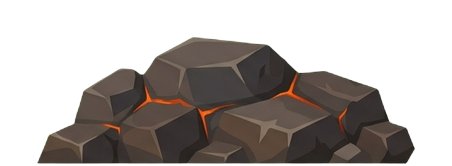
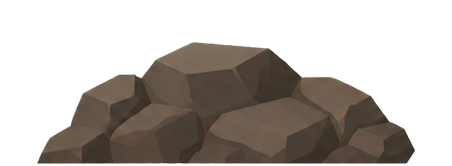
feat(art): 차원문 전투 현무암 더미에 컷페이퍼 아트 적용

diff --git a/.art/PRODUCTION-STATUS.md b/.art/PRODUCTION-STATUS.md
@@ -211,7 +211,7 @@
 | `Background/Gate/tree_2.png` | 클라이언트 PR (이슈 #519) | **실제 경기 검수 대기.** 양쪽으로 갈라지는 가지와 그을린 줄기을 살린 무광 컷페이퍼 아트다. 265×222 RGBA, 기존 GUID·임포트와 알파 가로 외곽 및 바닥 높이를 유지했다. 알파 외곽의 위쪽은 1px 낮아졌다. |
 | `Background/Gate/tree_3.png` | 클라이언트 PR (이슈 #515) | **실제 경기 검수 대기.** 차원문 6단계 지도와 맞춘 무광 그루터기다. 열린 윗부분과 돌출된 뿌리, 어두운 주황 균열을 남겼다. 234×218, PPU 100, 하단 중앙 피벗. 알파 바닥선은 기존과 같고 외곽 폭은 207px에서 201px로 줄었다. |
 | `Background/Gate/tree_4.png` | 클라이언트 PR (이슈 #518) | **실제 경기 검수 대기.** 굽은 큰 가지와 넓게 뻗은 뿌리을 살린 무광 컷페이퍼 아트다. 328×264 RGBA, 기존 GUID·임포트와 알파 가로 외곽 및 바닥 높이를 유지했다. 알파 외곽의 위쪽은 4px 낮아졌다. |
-| `Background/Gate/rock.png` | 클라이언트 PR (이슈 #235) | **검수 대기, 자리표시 아트.** 차원문 모험(adventure 3) 전투 배경 theme 의 새 파일(`Background/Fortress/rock.png` 와 같은 이름·크기). 452x166 RGBA, 불씨 금이 간 현무암 더미. `GateBattleTheme.asset` 이 참조하고 `GateAdventure.asset` 의 `battleTheme` 이 이 asset 을 가리킨다. `agy` 생성, 초록 배경 key 제거. Editor 미검증 |
+| `Background/Gate/rock.png` | 클라이언트 PR (이슈 #521) | **실제 경기 검수 대기.** 낮고 넓게 쌓인 바위와 옅은 균열을 살린 무광 컷페이퍼 아트다. 452×166 RGBA, 기존 GUID·임포트와 알파 가로 외곽 및 바닥 높이를 유지했다. 알파 외곽의 위쪽은 5px 낮아졌다. |
 | `Background/Gate/grass_1.png` | 클라이언트 PR (이슈 #235) | **검수 대기, 자리표시 아트.** 차원문 모험(adventure 3) 전투 배경 theme 의 새 파일(`Background/Fortress/grass_1.png` 와 같은 이름·크기). 238x117 RGBA, 마른 재색 풀 한 포기와 불씨 둘. `GateBattleTheme.asset` 이 참조하고 `GateAdventure.asset` 의 `battleTheme` 이 이 asset 을 가리킨다. `agy` 생성, 초록 배경 key 제거. Editor 미검증 |
 | `Background/Gate/grass_2.png` | 클라이언트 PR (이슈 #235) | **검수 대기, 자리표시 아트.** 차원문 모험(adventure 3) 전투 배경 theme 의 새 파일(`Background/Fortress/grass_2.png` 와 같은 이름·크기). 466x99 RGBA, 마른 풀 다섯 포기 줄. `GateBattleTheme.asset` 이 참조하고 `GateAdventure.asset` 의 `battleTheme` 이 이 asset 을 가리킨다. `agy` 생성, 초록 배경 key 제거. Editor 미검증 |
 | `UI/Card/type_fire.png`, `type_water.png`, `type_nature.png`, `type_lightning.png`, `type_rock.png`, `type_wind.png` | 클라이언트 PR (이슈 #304) | **검수 대기.** 원소 아이콘 6장. 마법서 상성표, 도감 원소 칩, 덱 카드가 `CardImageMapper.asset` 으로 쓴다. 181x256 · 180x256 · 136x256 · 161x256 · 256x192 · 256x195 RGBA(옛 128 긴 변의 두 배), 여백 없이 잘랐다. 여섯 장을 1536x1024 한 캔버스의 3x2 격자에 같이 그리게 해 한 번에 통과했다(`codex` `image_gen` 1회). 레퍼런스는 `MasterStyleKey.png`, `ArcaneImpact.png`, 원소 룬 여섯 장 합성. magenta key 제거, 네 모서리 alpha 0, 불투명 픽셀에 magenta 잔색 0. 쓰는 곳이 모두 `preserveAspect` 인 UI `Image` 라 화면 크기는 RectTransform 과 가로세로 비로만 정해지고 픽셀 수·PPU 와 무관하다 — `.meta` 는 그대로 뒀다. 가로세로 비는 다섯 장이 옛 비의 8% 안이다. `type_wind` 만 1.88 에서 1.31 로 바뀌어 상성표 칸 안에서 옛 그림보다 세로로 커진다(옛 바람이 여섯 중 가장 작아 보였다). 프롬프트는 1.9 를 숫자로 요구했지만 격자 한 칸 안에서는 지켜지지 않았다 |
